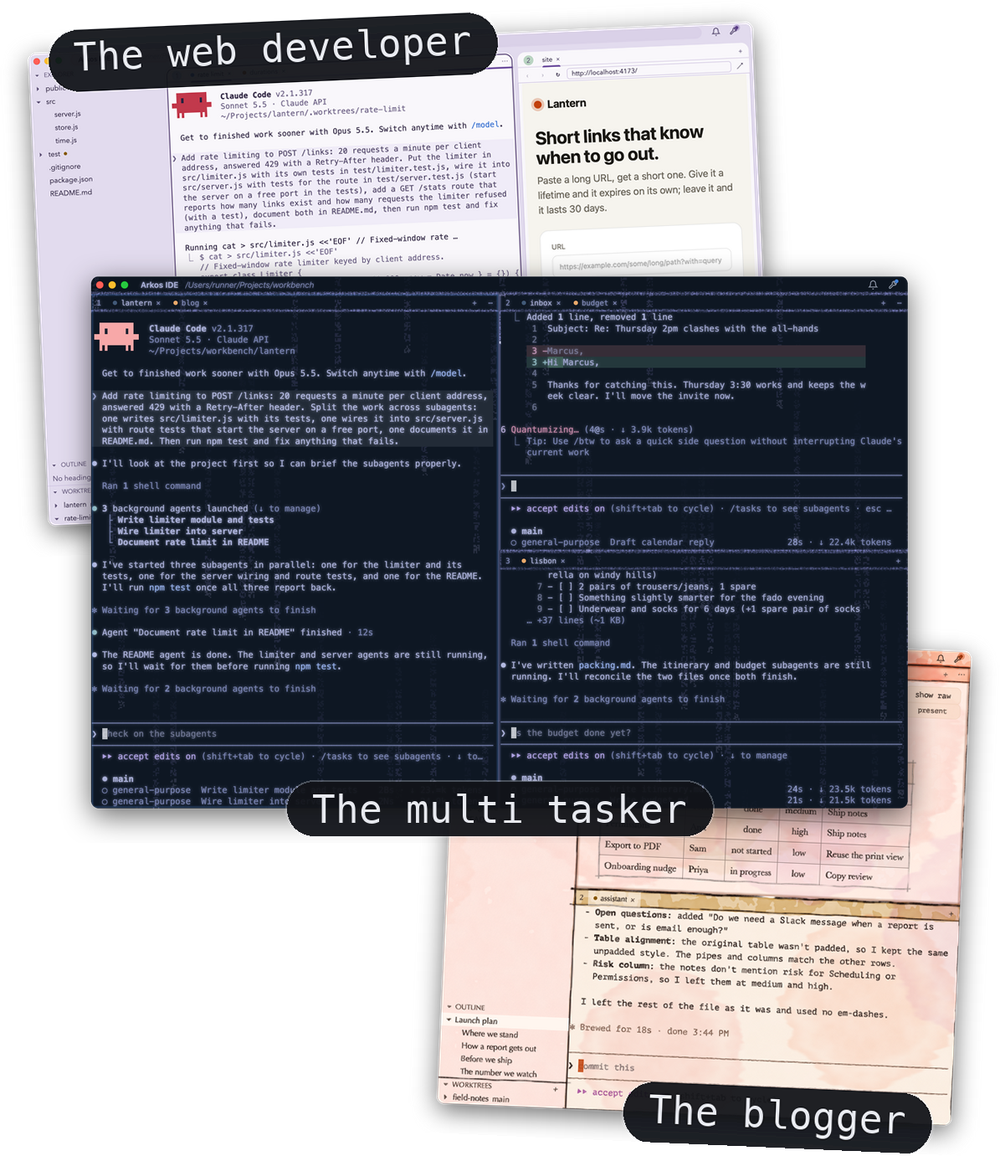
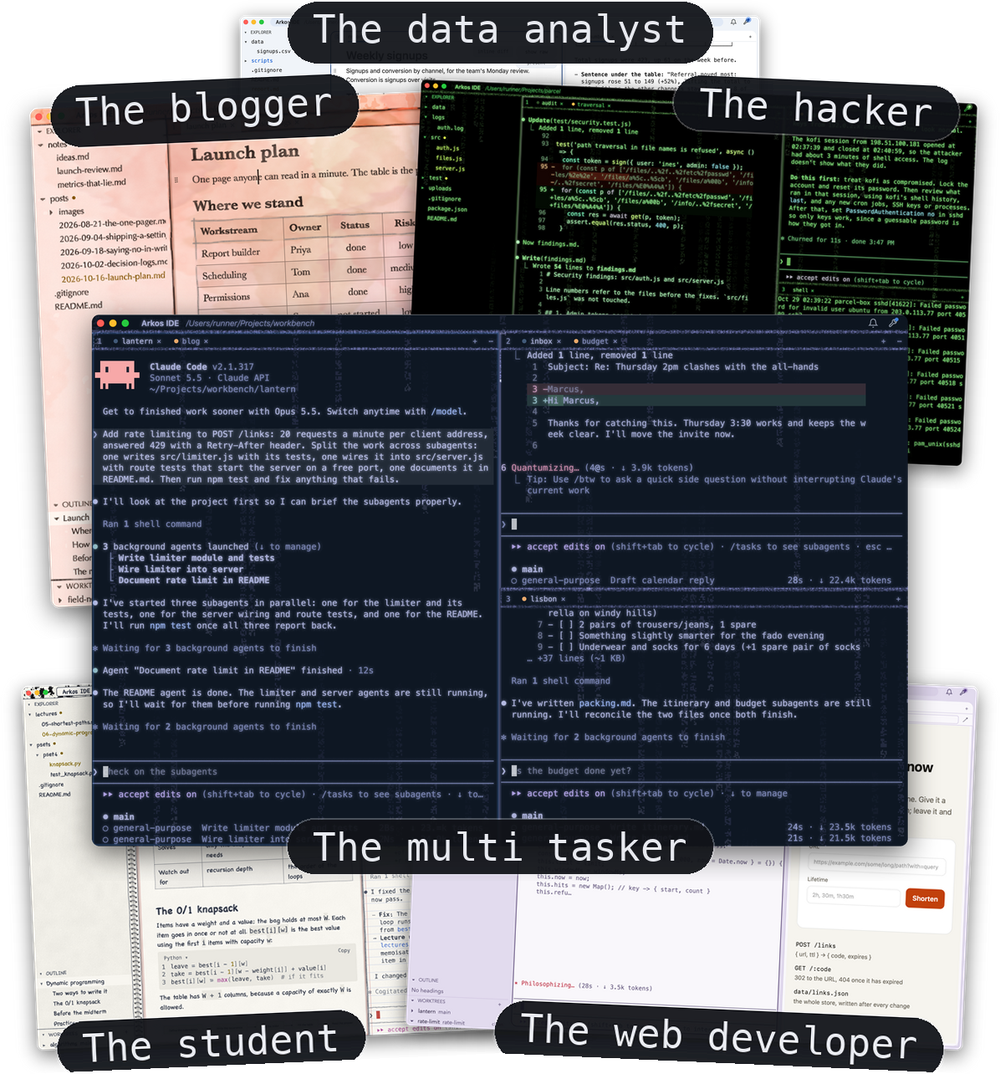
The hero still shows every persona, the analyst's chart a fixed width, and the shoot runner installs the themes' fonts
frame.py composes one to six backs (the outer pair as before, further pairs tucked in and higher
with their captions on top, an odd last one in the middle; the portrait in a row above and one
below), and shoot.sh hands it every persona's still. The chart is 480 points wide so it fits the
report's column on any machine. The runner had no DM Sans, Roboto Mono, Cascadia Code or
Monaspace Radon, so the new themes' pictures were in fallback type.

diff --git a/scripts/shoot/frame.py b/scripts/shoot/frame.py
@@ -11,7 +11,7 @@ another capture over the window at those pixels first.
 behind it, a caption on each (the scene's words), on a transparent ground; `compose-portrait`
 the same as a tall picture, for a place beside text:
 
-    python3 -I scripts/shoot/frame.py compose <out.png> <front.png>:"The multi tasker" <back.png>:"The web developer" [<back2.png>:"The blogger"]
+    python3 -I scripts/shoot/frame.py compose <out.png> <front.png>:"The multi tasker" <back.png>:"The web developer" [<back.png>:"The blogger" ...]
 
 Needs Pillow."""
 import sys
@@ -70,7 +70,8 @@ def captioned(still, text, align, scale, edge="bottom"):
     pad = round(PAD * scale)
     inset = 10 * SCALE
     px = {"left": pad + inset, "center": (still.width - pw) // 2, "right": still.width - pad - inset - pw}[align]
-    py = still.height - pad - ph // 2 if edge == "bottom" else pad - ph // 2
+    # A top caption stays inside the still, whose shadow padding may be less than half the pill.
+    py = still.height - pad - ph // 2 if edge == "bottom" else max(0, pad - ph // 2)
     out = still.copy()
     pill = Image.new("RGBA", out.size, (0, 0, 0, 0))
     ImageDraw.Draw(pill).rounded_rectangle((px, py, px + pw, py + ph), radius=ph // 2, fill=(17, 19, 24, 240), outline=(232, 234, 240, 70), width=SCALE)
@@ -81,35 +82,54 @@ def captioned(still, text, align, scale, edge="bottom"):
 
 def compose(out, pieces):
     """pieces: [(path, caption)], the first in front. The backs stand behind the front one,
-    a little higher and tilted, as Day Hike's postcards do, each showing most of itself so the
-    caption on its bottom edge stays in view; the front sits lower and centred."""
+    a little higher and tilted, as Day Hike's postcards do: in turn left and right, the first
+    pair against the edges with its captions on their bottom edges, each pair after it tucked
+    in, higher and smaller with its captions on their top edges (the part that shows), and an
+    odd last one at the top in the middle. The front sits lower and centred. One or two backs
+    lie as the three-window hero always had them."""
     W = CANVAS_W
     front_w = round(W * 0.46)
-    back_w = round(W * 0.38)
     src = Image.open(pieces[0][0]).convert("RGBA")
     front = src.resize((front_w, round(src.height * front_w / src.width)), Image.Resampling.LANCZOS)
     front = captioned(front, pieces[0][1], "center", front_w / src.width)
-    backs = []
+    rest = pieces[1:]
+    n = len(rest)
+    pairs = n // 2
+    deep = (pairs - 1) + (1 if n % 2 and n > 1 else 0)
+    # (still, x, y, depth): the outer pair's top sits this far down for each tier behind it.
+    lift = round(W * 0.075)
+    placed = []
     back_h = None
-    for i, (path, caption) in enumerate(pieces[1:]):
-        side = "left" if i % 2 == 0 else "right"
+    for i, (path, caption) in enumerate(rest):
+        middle = n % 2 == 1 and i == n - 1 and n > 1
+        j = pairs if middle else i // 2
+        side = "center" if middle else ("left" if i % 2 == 0 else "right")
+        width = round(W * (0.38 - 0.05 * j))
         src = Image.open(path).convert("RGBA")
-        # The backs share one height, the first one's at the back width, so a narrower still
-        # (the blogger's stacked panes) is drawn narrower rather than taller; each stays against
-        # its own edge, so the group keeps its width.
-        bw = back_w if back_h is None else round(src.width * back_h / src.height)
+        # The outer pair shares its first still's height, so a narrower still (the blogger's
+        # stacked panes) is drawn narrower rather than taller, and never wider than the tier's
+        # width, so a wide one does not outgrow the others.
+        bw = width if j or back_h is None else min(width, round(src.width * back_h / src.height))
         b = src.resize((bw, round(src.height * bw / src.width)), Image.Resampling.LANCZOS)
-        back_h = back_h or b.height
-        b = captioned(b, caption, side, bw / src.width)
-        b = b.rotate(2.5 if side == "left" else -2.5, expand=True, resample=Image.Resampling.BICUBIC)
-        backs.append((side, b))
-    front_x = (W - front_w) // 2
-    front_y = round(front.height * 0.10)
-    height = max([front_y + front.height] + [b.height for _, b in backs]) + 4 * SCALE
+        if j == 0:
+            back_h = back_h or b.height
+        b = captioned(b, caption, side, bw / src.width, edge="bottom" if j == 0 else "top")
+        tilt = 0.0 if middle else (2.5 - 0.8 * j) * (1 if side == "left" else -1)
+        b = b.rotate(tilt, expand=True, resample=Image.Resampling.BICUBIC)
+        y = (deep - j) * lift if j <= deep else 0
+        if middle:
+            x = (W - b.width) // 2
+        else:
+            inset = round(W * 0.10 * j)
+            x = inset if side == "left" else W - inset - b.width
+        placed.append((b, x, y, j))
+    base = deep * lift if n > 2 else 0
+    front_y = base + round(front.height * 0.10)
+    height = max([front_y + front.height] + [y + b.height for b, _, y, _ in placed]) + 4 * SCALE
     canvas = Image.new("RGBA", (W, height), (0, 0, 0, 0))
-    for side, b in backs:
-        canvas.alpha_composite(b, (0 if side == "left" else W - b.width, 0))
-    canvas.alpha_composite(front, (front_x, front_y))
+    for b, x, y, _ in sorted(placed, key=lambda p: -p[3]):
+        canvas.alpha_composite(b, (x, y))
+    canvas.alpha_composite(front, ((W - front_w) // 2, front_y))
     canvas = canvas.crop(canvas.getbbox())
     canvas = canvas.resize((OUT_W, round(canvas.height * OUT_W / canvas.width)), Image.Resampling.LANCZOS)
     canvas.save(out, optimize=True)
@@ -121,9 +141,11 @@ PORTRAIT_OUT_W = 1000
 
 
 def compose_portrait(out, pieces):
-    """The same three stills as a tall picture, for a place beside text (csarko.sh's card): the
+    """The same stills as a tall picture, for a place beside text (csarko.sh's card): the
     first behind-still at the top, the front one over its lower half, the second behind-still
     under the front one's lower half, tilted the other way; captions on the edges that show."""
+    if len(pieces) > 3:
+        return compose_portrait_fan(out, pieces)
     W = PORTRAIT_W
     front_w = round(W * 0.88)
     back_w = round(W * 0.78)
@@ -152,6 +174,56 @@ def compose_portrait(out, pieces):
     canvas.alpha_composite(top, (0, 0))
     if len(backs) > 1:
         canvas.alpha_composite(backs[1], (W - backs[1].width, bottom_y))
+    canvas.alpha_composite(front, ((W - front_w) // 2, front_y))
+    canvas = canvas.crop(canvas.getbbox())
+    canvas = canvas.resize((PORTRAIT_OUT_W, round(canvas.height * PORTRAIT_OUT_W / canvas.width)), Image.Resampling.LANCZOS)
+    canvas.save(out, optimize=True)
+    print(f"{out}: {canvas.width}x{canvas.height}")
+
+
+def compose_portrait_fan(out, pieces):
+    """The tall picture with more than two backs: the first half of them (rounded up) fanned in
+    a row above the front one, their captions on their top edges, the rest in a row under its
+    lower half, their captions on their bottom edges. A row of two stands against the edges,
+    tilted apart; a row of three has its middle one a little further out of the front's way
+    (higher above, lower below) and drawn first, so its caption shows between the others."""
+    W = PORTRAIT_W
+    front_w = round(W * 0.88)
+    src = Image.open(pieces[0][0]).convert("RGBA")
+    front = src.resize((front_w, round(src.height * front_w / src.width)), Image.Resampling.LANCZOS)
+    front = captioned(front, pieces[0][1], "center", front_w / src.width)
+    rest = pieces[1:]
+    half = (len(rest) + 1) // 2
+
+    def row(items, above):
+        k = len(items)
+        cards = []
+        for i, (path, caption) in enumerate(items):
+            middle = k == 3 and i == 1
+            align = "center" if middle else ("left" if i == 0 else "right")
+            if k == 1:
+                align = "left" if above else "right"
+            bw = round(W * (0.78 if k == 1 else 0.56 if middle else 0.6))
+            img = Image.open(path).convert("RGBA")
+            b = img.resize((bw, round(img.height * bw / img.width)), Image.Resampling.LANCZOS)
+            b = captioned(b, caption, align, bw / img.width, edge="top" if above else "bottom")
+            tilt = 0.0 if middle else (2.5 if align == "left" else -2.5)
+            b = b.rotate(tilt, expand=True, resample=Image.Resampling.BICUBIC)
+            x = (W - b.width) // 2 if middle else (0 if align == "left" else W - b.width)
+            cards.append((b, x, middle))
+        return cards
+
+    top, bottom = row(rest[:half], True), row(rest[half:], False)
+    shift = round(W * 0.06)
+    top_h = max(b.height for b, _, _ in top) + shift
+    front_y = round(top_h * 0.45)
+    bottom_y = front_y + round(front.height * 0.6)
+    height = max(front_y + front.height, bottom_y + max(b.height for b, _, _ in bottom) + shift) + 4 * SCALE
+    canvas = Image.new("RGBA", (W, height), (0, 0, 0, 0))
+    for b, x, middle in sorted(top, key=lambda c: not c[2]):
+        canvas.alpha_composite(b, (x, 0 if middle else shift))
+    for b, x, middle in sorted(bottom, key=lambda c: not c[2]):
+        canvas.alpha_composite(b, (x, bottom_y + (shift if middle else 0)))
     canvas.alpha_composite(front, ((W - front_w) // 2, front_y))
     canvas = canvas.crop(canvas.getbbox())
     canvas = canvas.resize((PORTRAIT_OUT_W, round(canvas.height * PORTRAIT_OUT_W / canvas.width)), Image.Resampling.LANCZOS)

diff --git a/README.md b/README.md
@@ -3,7 +3,7 @@
 <p align="center">Run many Claude Code sessions side by side, and never lose one.</p>
 
 <picture>
-  <img alt="Three Arkos IDE windows fanned out like postcards. In front, the multi tasker: three Claude Code sessions side by side, each running its own subagents on an unrelated project. Behind, the web developer with the app's page in a web tab, and the blogger with posts open in the markdown editor" src="docs/images/hero-dark.png" width="900">
+  <img alt="Six Arkos IDE windows fanned out like postcards, each in its own theme. In front, the multi tasker: three Claude Code sessions side by side, each running its own subagents on an unrelated project. Behind, the blogger with a launch plan in the markdown editor, the data analyst with a weekly report and its chart, the hacker hardening a service in Matrix green, the student with lecture notes on a ruled notebook page, and the web developer with the app's page in a web tab" src="docs/images/hero-dark.png" width="900">
 </picture>
 
 <p align="center">

diff --git a/scripts/shoot/demo/metrics/report.md b/scripts/shoot/demo/metrics/report.md
@@ -17,7 +17,7 @@ Week of 2026-10-26: numbers not in yet.
 ## Signups by week
 
 ```mermaid
-%%{init: {"xyChart": {"height": 300, "showDataLabel": true, "xAxis": {"labelPadding": 8}, "yAxis": {"showLabel": false, "showTick": false, "showTitle": false, "showAxisLine": false}}, "themeVariables": {"xyChart": {"plotColorPalette": "#a8c7fa"}}}}%%
+%%{init: {"xyChart": {"width": 480, "height": 300, "showDataLabel": true, "xAxis": {"labelPadding": 8}, "yAxis": {"showLabel": false, "showTick": false, "showTitle": false, "showAxisLine": false}}, "themeVariables": {"xyChart": {"plotColorPalette": "#a8c7fa"}}}}%%
 xychart-beta
   title "Signups per week, all channels"
   x-axis [Sep 7, Sep 14, Sep 21, Sep 28, Oct 5, Oct 12, Oct 19]
